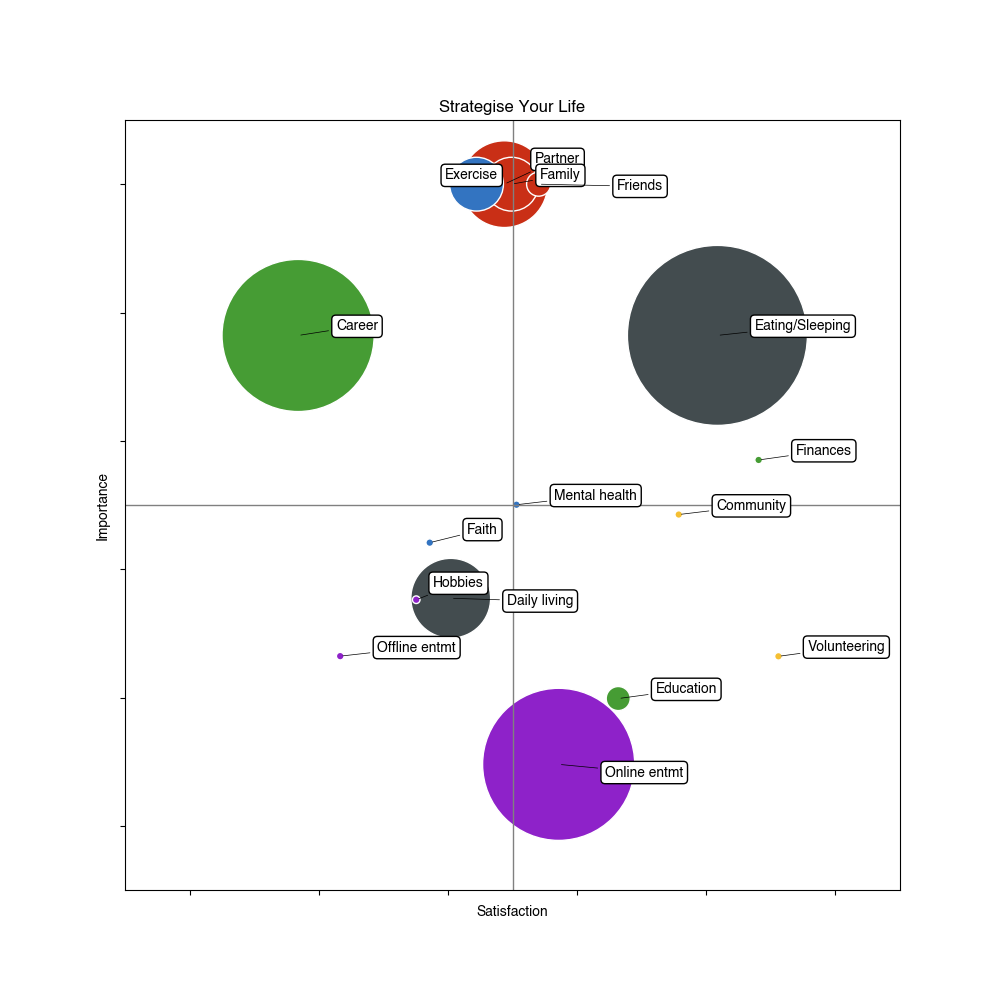
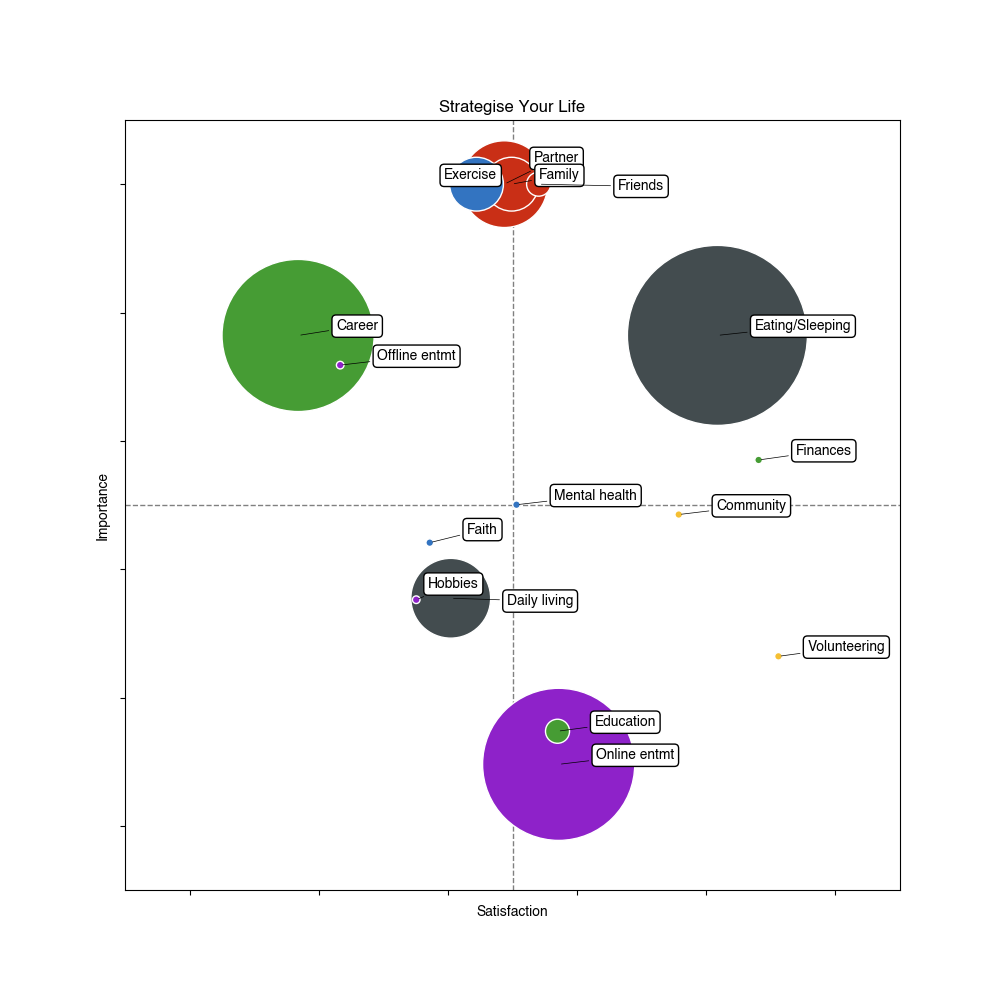
turned quadrant line dotted and moved to back

diff --git a/website/visuals.py b/website/visuals.py
@@ -48,8 +48,8 @@ def CreateVisual():
   plt.ylim((-10,110))
 
   #adding the 4 quadrant lines
-  plt.plot([50,50],[-10,110], linewidth=1, color='grey' )
-  plt.plot([-10,110],[50,50], linewidth=1, color='grey' )
+  plt.plot([50,50],[-10,110], linewidth=1, color='grey', linestyle="dashed", zorder=0)
+  plt.plot([-10,110],[50,50], linewidth=1, color='grey', linestyle="dashed", zorder=0)
 
   #Plots the data points
   plt.scatter(df['satisfaction'], df['importance'], df['timeInvested']*300, c=colour_list, edgecolors='white')
